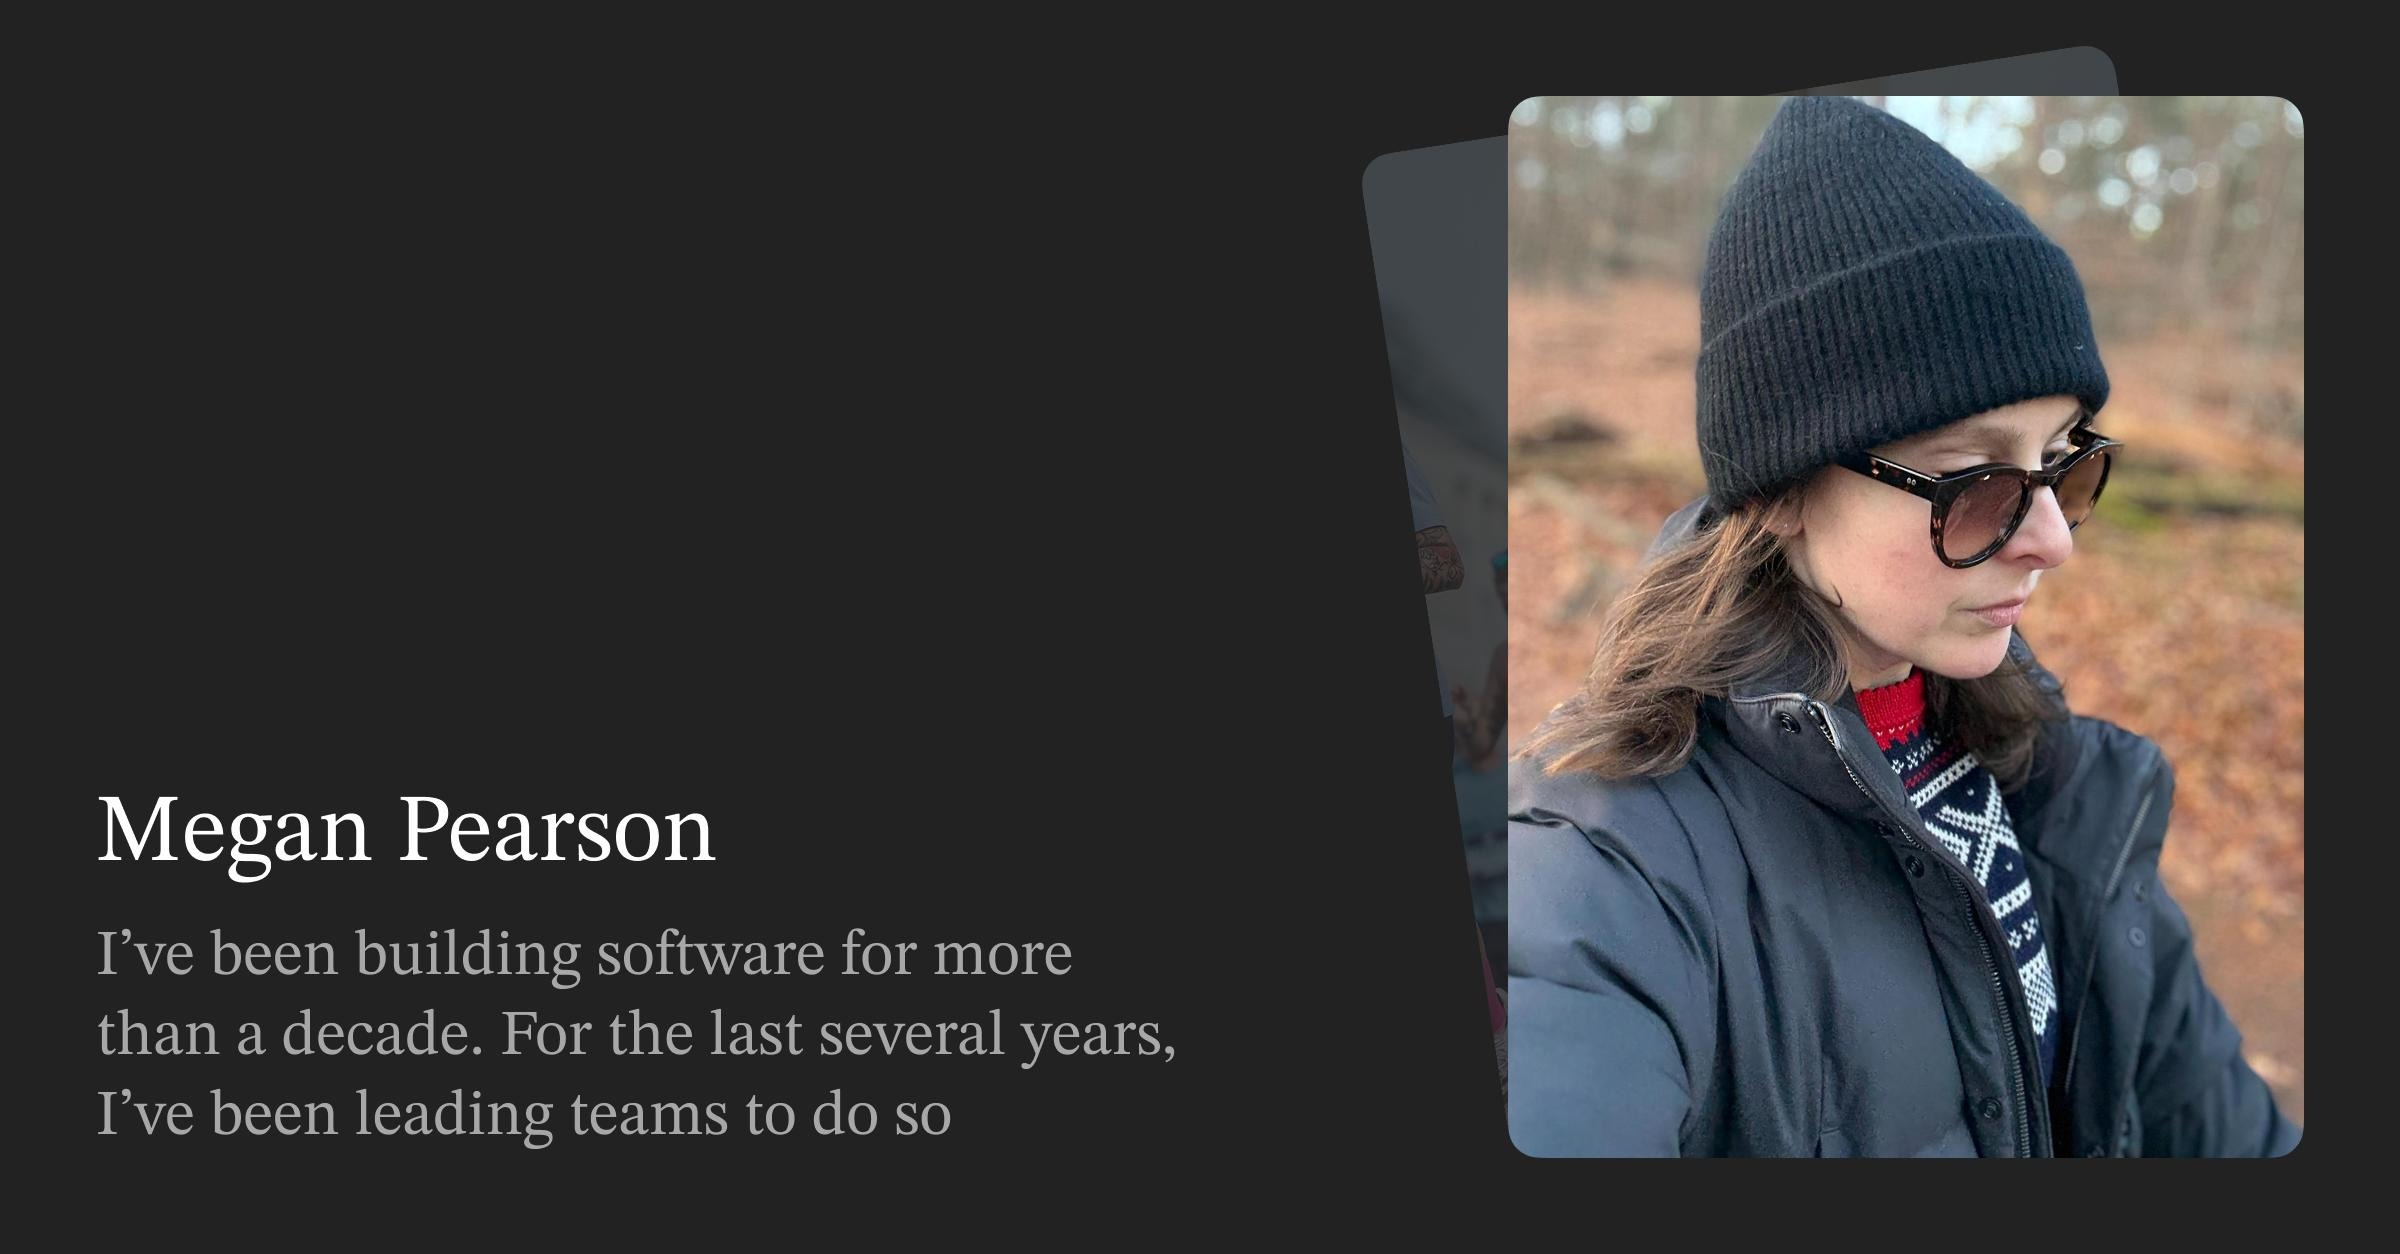
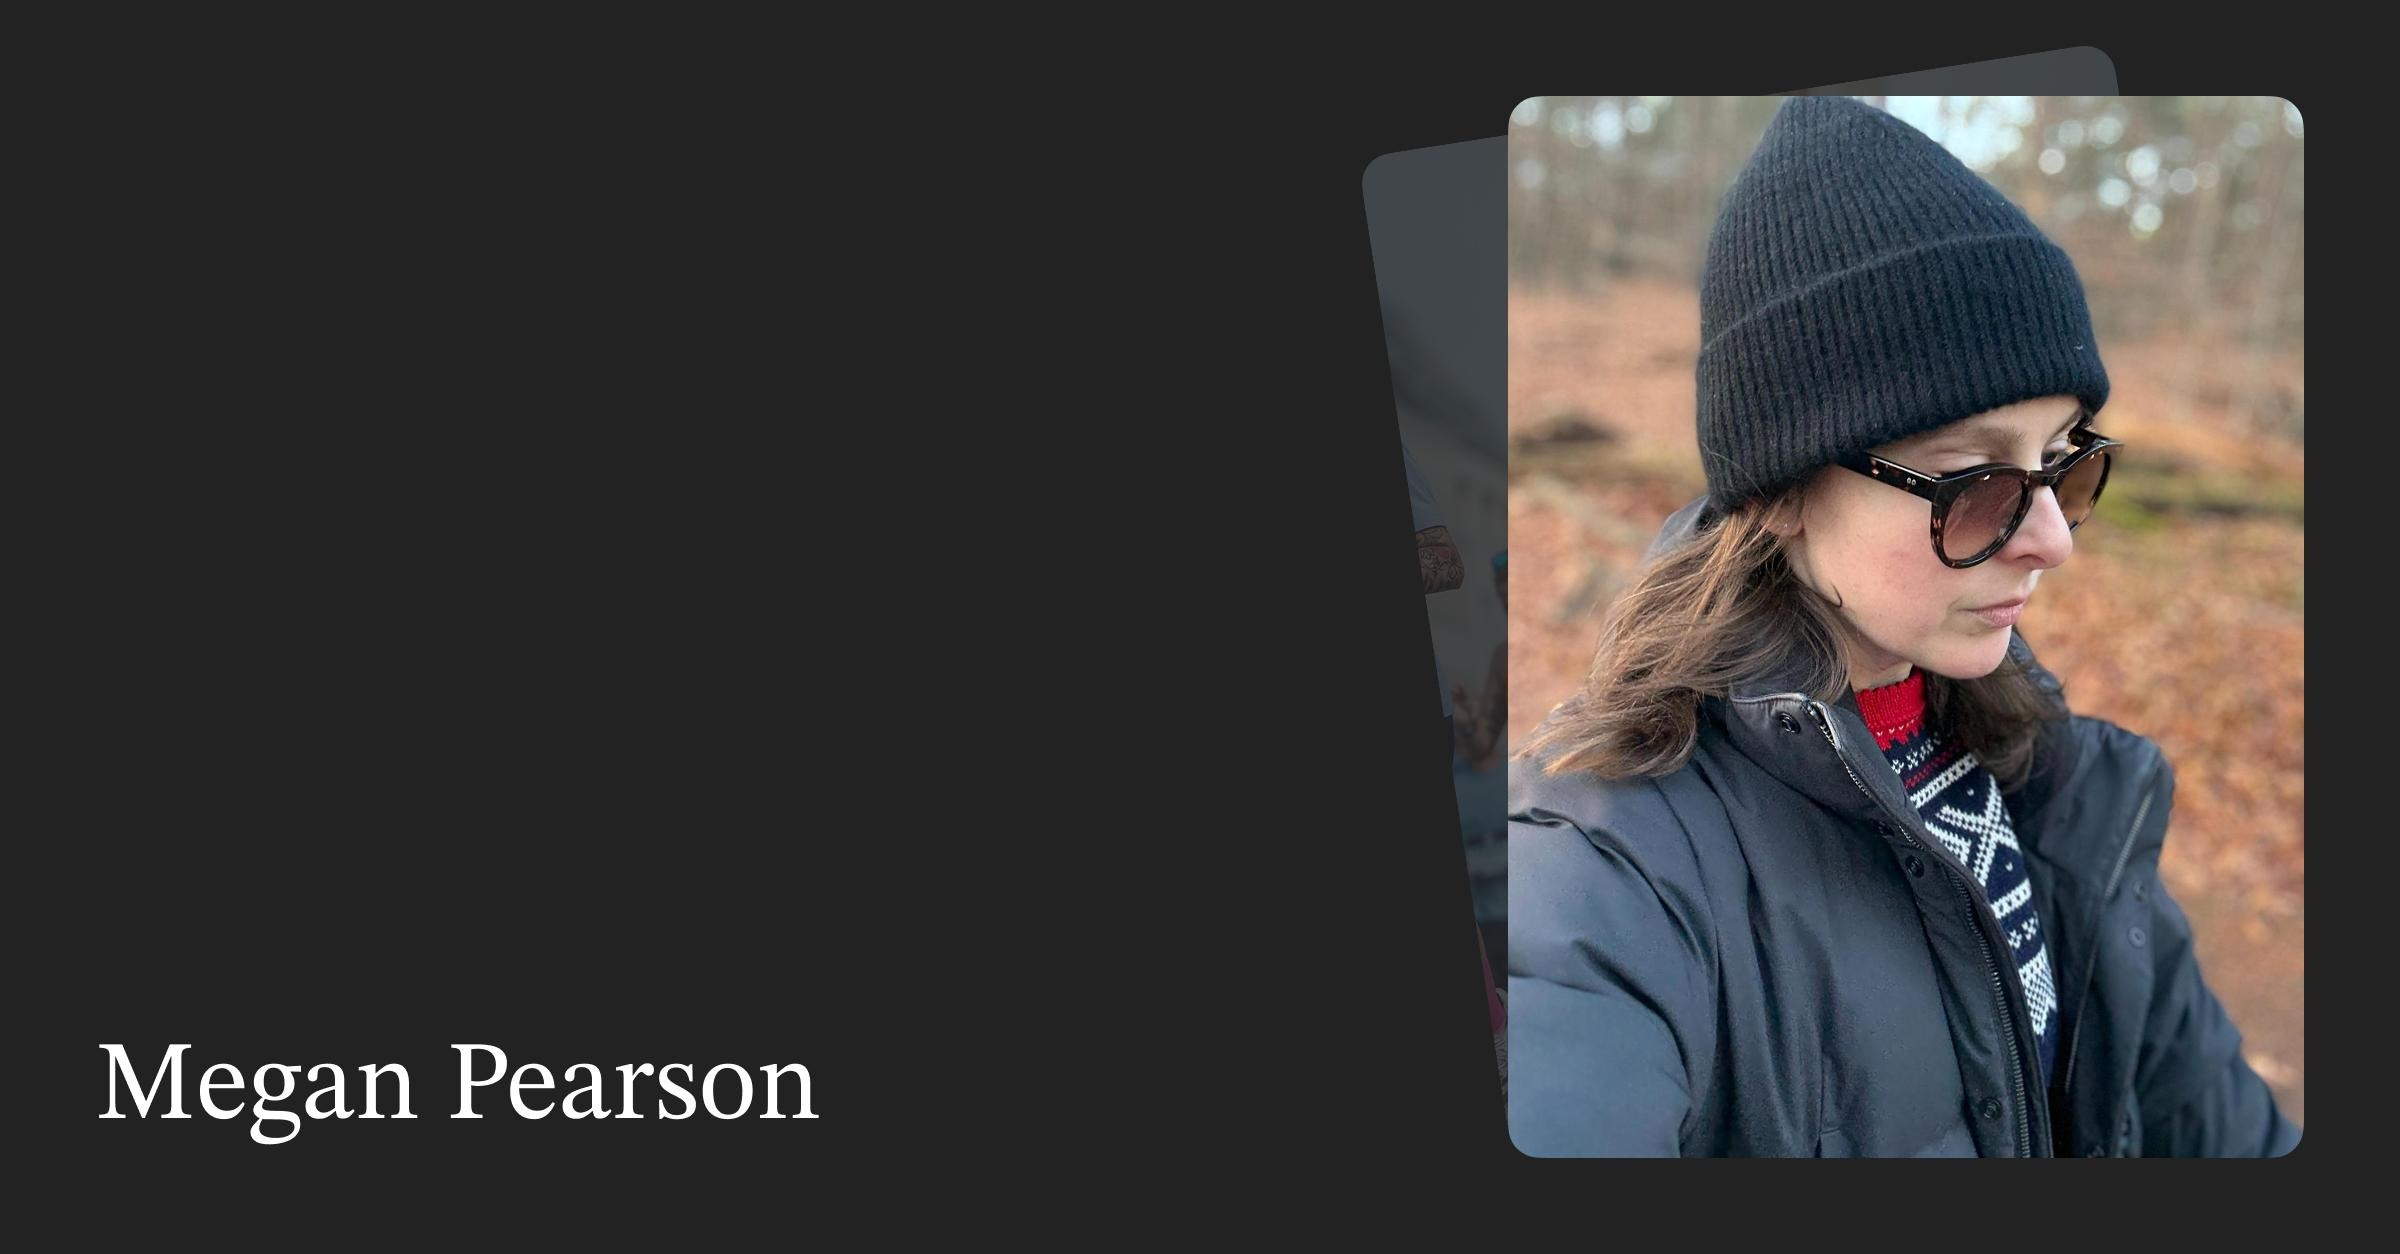
Updates metadata

Changed region(s): [[0.0312, 0.8086, 0.5, 0.933], [0.0312, 0.7464, 0.4688, 0.7775], [0.0312, 0.622, 0.3125, 0.7153]]

diff --git a/app/layout.tsx b/app/layout.tsx
@@ -21,12 +21,12 @@ export const metadata: Metadata = {
   metadataBase: new URL("https://megans.website"),
   title: "Megan Pearson",
   description:
-    "Engineering + product leader with 10+ years of experience. Focused on building useful, scalable, and sensible AI.",
+    "Engineering + product leader with 10+ years of experience. Focused on building useful, scalable, and sensible products.",
   authors: [{ name: "Megan Pearson" }],
   openGraph: {
     title: "Megan Pearson",
     description:
-      "Engineering + product leader with 10+ years of experience. Focused on building useful, scalable, and sensible AI.",
+      "Engineering + product leader with 10+ years of experience. Focused on building useful, scalable, and sensible products.",
     type: "website",
     images: [
       {
@@ -41,7 +41,7 @@ export const metadata: Metadata = {
     card: "summary_large_image",
     title: "Megan Pearson",
     description:
-      "Engineering + product leader with 10+ years of experience. Focused on building useful, scalable, and sensible AI.",
+      "Engineering + product leader with 10+ years of experience. Focused on building useful, scalable, and sensible products.",
     images: ["/og_image.jpg"],
   },
 };
